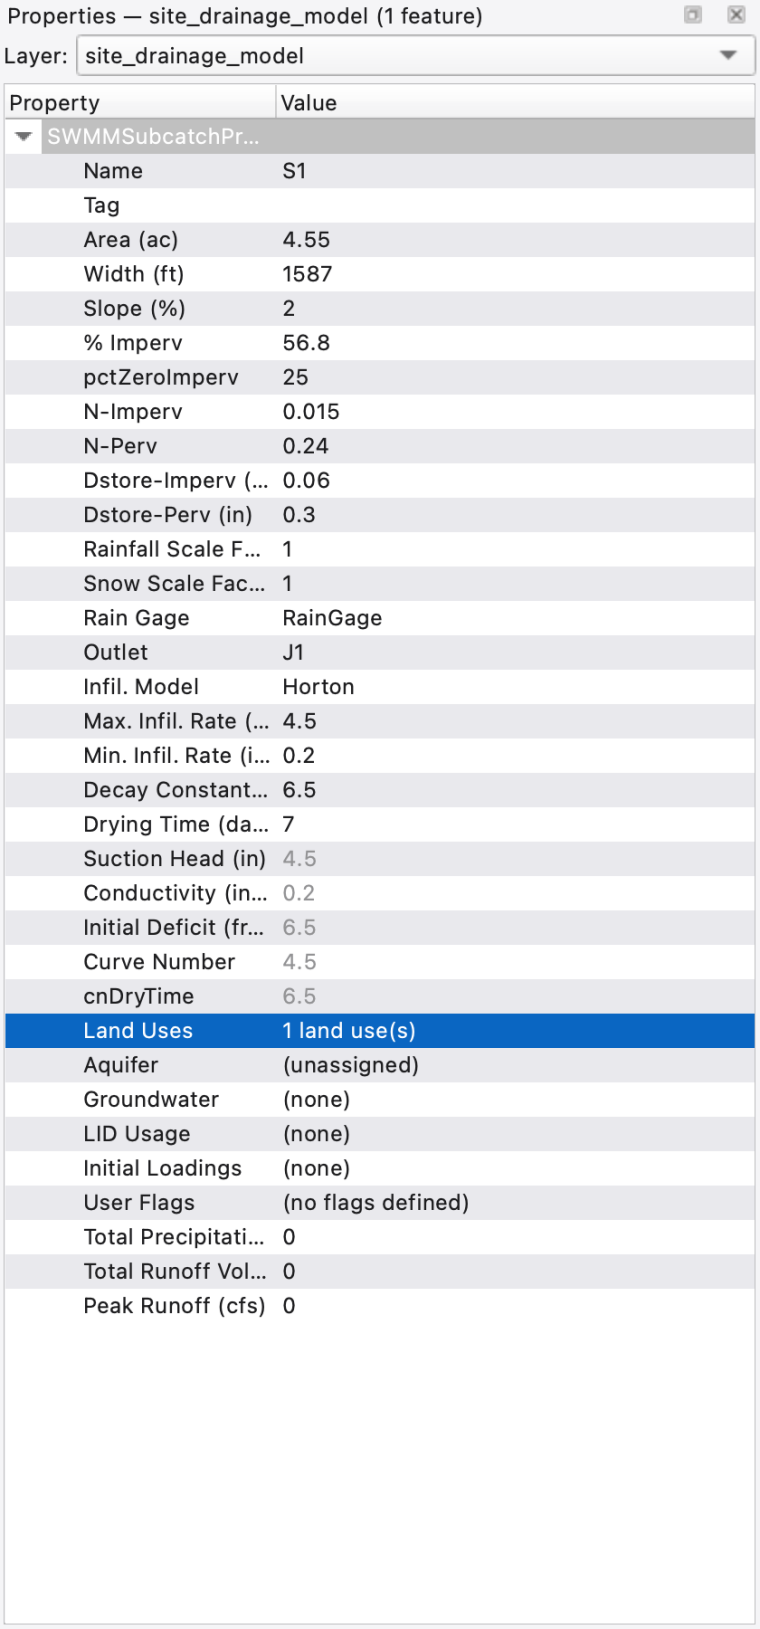
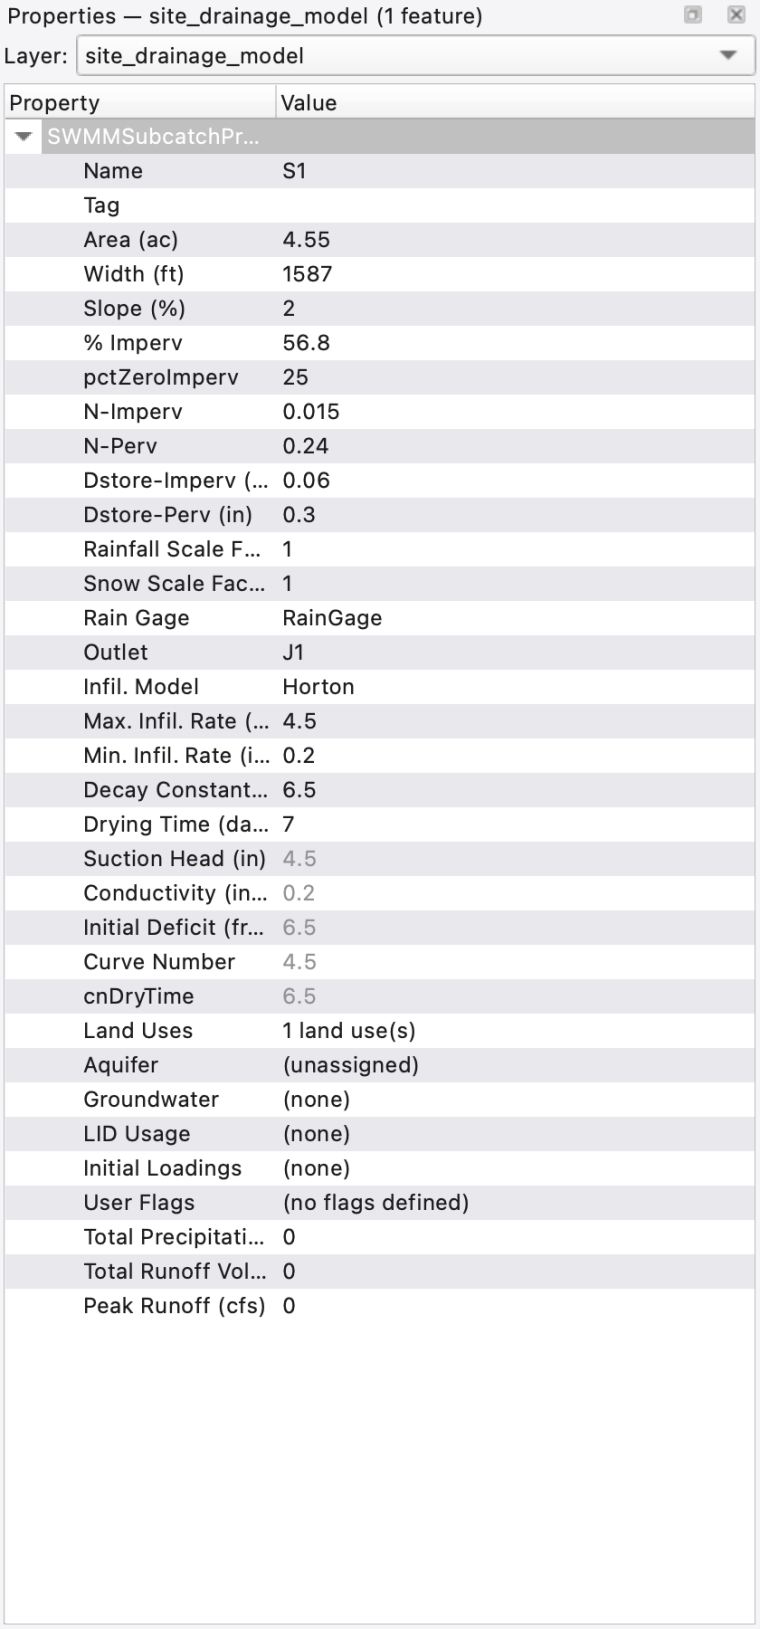
feat(docs): reach the compound editors; five more figures
The node/link compound editors open from a right-click menu -- native on
macOS, so human-lane -- or from an "Edit..." button the table's delegate
builds only while the cell is in edit mode. "editCell" opens that editor so
"click" can press it, which is the whole chain: page -> select -> editCell
-> click -> grab.

Four things that chain needed:

  - The click continuation re-ran editCell and column against the dialog it
    had just raised. They are served by then, like page and tab.
  - The delegate's button embeds the cell's own summary in its label
    ("(none) - Edit..."), which a manifest cannot know per object, so click
    falls back to a contains match.
  - editCell honoured row 0 rather than the selected row, which opened an
    inflows page reading "0 on this node (model total: 4)".
  - hostSelect ordering is now split by row type. An ACTION row must select
    before the action fires; a WIDGET row must select after its page has
    switched, because switching the Attribute Table's category resets the
    model. Selecting first looked for a conduit among the junctions.

A dock's layout also claws back the size set at the top of grabInto once
selection rebuilds the contents -- the Properties panel came out 278 px wide
instead of 420 -- so the size is re-asserted last.

Verified twice that none of this disturbed existing figures:
16_pollutant_editor re-captured byte-identical to the published copy.
[…]

Changed region(s): [[0.0, 0.6139, 0.9987, 0.6446]]

diff --git a/src/ui/util/figurecapture.cpp b/src/ui/util/figurecapture.cpp
@@ -373,6 +373,7 @@ bool FigureCapture::loadManifest(QString *error)
             spec.clicks << clickVal.toString();
         }
         spec.column      = o.value(QStringLiteral("column")).toString();
+        spec.editCell    = o.value(QStringLiteral("editCell")).toString();
         spec.grab        = o.value(QStringLiteral("grab")).toString();
         spec.maxWidth    = o.value(QStringLiteral("maxWidth")).toInt(0);
         spec.size     = sizeFromString_(o.value(QStringLiteral("size")).toString());
@@ -479,10 +480,12 @@ void FigureCapture::captureSpec(const FigureSpec &spec)
 {
     const int settle = spec.settleMs > 0 ? spec.settleMs : mDefaultSettleMs;
 
-    // Before anything else, and for EVERY kind of row: a widget row wants the
-    // selection just as much as an action row does — the Properties panel is
-    // a widget grab whose whole content comes from the selected object.
-    if (!applyHostSelect(spec))
+    // An ACTION row must select before the action fires: the styling commands
+    // are scoped to the layer selected in the Layers panel. A WIDGET row is
+    // the other way round — its "page" switches the Attribute Table's
+    // category, which resets the model, so selecting a row first selects in
+    // the wrong category. That one is applied in grabInto(), after the page.
+    if (spec.widget.isEmpty() && !spec.wholeWindow && !applyHostSelect(spec))
         return;
 
     // --- whole main window -------------------------------------------------
@@ -649,6 +652,73 @@ void FigureCapture::grabInto(QWidget *target, const FigureSpec &spec)
         }
     }
 
+    // The other half of the rule above: a widget or whole-window row selects
+    // AFTER its page has switched.
+    if ((!spec.widget.isEmpty() || spec.wholeWindow) && !applyHostSelect(spec))
+        return;
+
+    // A compound property (External Inflows, Cross Section, LID Usage) is
+    // edited through a delegate-built "Edit…" button that only exists while
+    // the cell is in edit mode. Open that editor so a later click can press
+    // it — the alternative entry point is a right-click menu, which is
+    // native on macOS and therefore human-lane.
+    if (!spec.editCell.isEmpty()) {
+        // A category switch RESETS the table model and rebuilds its column
+        // schema, and that lands on a later turn of the event loop. Looking
+        // for the column immediately found a model with no rows at all.
+        {
+            QElapsedTimer rebuilt;
+            rebuilt.start();
+            const int wait = spec.settleMs > 0 ? spec.settleMs : mDefaultSettleMs;
+            while (rebuilt.elapsed() < wait)
+                QCoreApplication::processEvents(QEventLoop::ExcludeUserInputEvents, 20);
+        }
+        bool opened = false;
+        QStringList headers;
+        const auto views = target->findChildren<QAbstractItemView *>();
+        for (QAbstractItemView *view : views) {
+            QAbstractItemModel *model = view->model();
+            if (!view->isVisibleTo(target) || !model || model->rowCount() <= 0)
+                continue;
+            for (int col = 0; col < model->columnCount(); ++col) {
+                const QString head =
+                    model->headerData(col, Qt::Horizontal, Qt::DisplayRole).toString();
+                if (head.isEmpty())
+                    continue;
+                headers << head;
+                if (head.compare(spec.editCell, Qt::CaseInsensitive) != 0)
+                    continue;
+                // Honour the selected row: hostSelect picks the object the
+                // figure is about, and opening row 0 regardless produced an
+                // inflows page reading "0 on this node (model total: 4)".
+                const int row = view->currentIndex().isValid()
+                                    ? view->currentIndex().row() : 0;
+                const QModelIndex idx = model->index(row, col);
+                if (!idx.isValid())
+                    continue;
+                view->scrollTo(idx, QAbstractItemView::PositionAtCenter);
+                view->setCurrentIndex(idx);
+                view->edit(idx);
+                QCoreApplication::processEvents(QEventLoop::ExcludeUserInputEvents);
+                opened = true;
+                break;
+            }
+            if (opened)
+                break;
+        }
+        if (!opened) {
+            r.status    = QStringLiteral("failed");
+            r.detail    = QStringLiteral("no column headed '%1' to edit in %2 — headers: %3")
+                              .arg(spec.editCell,
+                                   QString::fromLatin1(target->metaObject()->className()),
+                                   headers.join(QStringLiteral(", ")));
+            r.elapsedMs = int(mSpecTimer.elapsed());
+            dismissOpenedBy(spec);
+            finishSpec(r);
+            return;
+        }
+    }
+
     // Some figures live one button-press further in: the label expression
     // builder opens from the Labels tab, the ramp editor from a ramp picker.
     // Arm the grab BEFORE the click for the same reason the action path does
@@ -664,6 +734,7 @@ void FigureCapture::grabInto(QWidget *target, const FigureSpec &spec)
             const QString wanted = spec.clicks.at(i);
             QStringList offered;
             btn = nullptr;
+            QAbstractButton *loose = nullptr;
             const auto buttons = target->findChildren<QAbstractButton *>();
             for (QAbstractButton *b : buttons) {
                 if (!b->isVisibleTo(target) || !b->isEnabled()
@@ -675,7 +746,14 @@ void FigureCapture::grabInto(QWidget *target, const FigureSpec &spec)
                     btn = b;
                     break;
                 }
+                // A delegate button embeds the cell's own summary in its
+                // label ("(none) - Edit..."), which a manifest cannot know
+                // per object. Fall back to a contains match.
+                if (!loose && label.contains(wanted, Qt::CaseInsensitive))
+                    loose = b;
             }
+            if (!btn)
+                btn = loose;
             if (!btn) {
                 r.status    = QStringLiteral("failed");
                 r.detail    = QStringLiteral("no button labelled '%1' — buttons: %2")
@@ -695,6 +773,8 @@ void FigureCapture::grabInto(QWidget *target, const FigureSpec &spec)
         rest.clicks.clear();
         rest.page.clear();
         rest.tab.clear();
+        rest.editCell.clear();   // already served: it is what raised the dialog
+        rest.column.clear();
         rest.hostSize = QSize();
         QWidget *before = activeDialog();
         QTimer::singleShot(spec.settleMs > 0 ? spec.settleMs : mDefaultSettleMs,
@@ -864,6 +944,12 @@ void FigureCapture::grabInto(QWidget *target, const FigureSpec &spec)
         }
         target = inner;
     }
+
+    // Every step above can relayout the target, and a dock's layout claws
+    // back the size set at the top — the Properties panel came out 278 px
+    // wide instead of 420. Re-assert it last, once the content is final.
+    if (spec.size.isValid())
+        target->resize(spec.size);
 
     // Let the resize / page switch lay out before the pixels are read.
     QCoreApplication::processEvents(QEventLoop::ExcludeUserInputEvents);

diff --git a/include/ui/util/figurecapture.h b/include/ui/util/figurecapture.h
@@ -64,6 +64,7 @@ struct FigureSpec {
     QString    hostSelectIn;        //!< scope \a hostSelect to this panel (objectName or class)
     QStringList clicks;             //!< buttons to press in the target; the LAST one's dialog becomes the target
     QString    column;              //!< scroll the target's table to this column header
+    QString    editCell;            //!< open the row-0 cell editor in this column (compound "Edit…")
     QString    grab;                //!< narrow the grab to this descendant (objectName or class)
     QSize      size;                //!< resize the target before grabbing
     QSize      hostSize;            //!< resize the MAIN WINDOW first (layout-dependent widgets)

diff --git a/docs/manual/images/TODO.md b/docs/manual/images/TODO.md
@@ -10,7 +10,7 @@ publish it with `python3 scripts/manual_figures.py flip --chapter NN`
 `\fig`). Videos are swapped by hand: `\videotodo{caption}` →
 `\video{YOUTUBE_ID, caption}`.
 
-Remaining: 239 figures, 35 videos. Published so far: 87.
+Remaining: 234 figures, 35 videos. Published so far: 92.
 
 ## 01_introduction.md
 
@@ -76,8 +76,6 @@ Remaining: 239 figures, 35 videos. Published so far: 87.
 - [ ] `10_three_docks.png` (line 11) — The Object Browser on the left with the Properties panel and Section View on the right
 - [ ] `10_browser_context_menu.png` (line 120) — The Object Browser leaf context menu on a junction
 - [ ] `10_offset_mode_toggle.png` (line 208) — The status-bar offset-mode switch with the property rows relabelled to Elevation
-- [ ] `10_node_compound_inflows.png` (line 247) — The node compound editor on the Inflows page
-- [ ] `10_link_xsection_editor.png` (line 261) — The cross-section page with a live preview of an arch section
 - [ ] `10_subcatch_lid_usage.png` (line 277) — The subcatchment compound editor on the LID Usage page
 - [ ] `10_convert_to_menu.png` (line 316) — The Convert To submenu with Virtual Junction greyed out and its rule tooltip
 - [ ] `10_section_view_link.png` (line 348) — The Section View showing a conduit cross-section at the 1:1 default
@@ -120,11 +118,8 @@ Remaining: 239 figures, 35 videos. Published so far: 87.
 - [ ] `14_inlet_junction_setup.png` (line 138) — The Inlet Junction Setup dialog
 - [ ] `14_inlet_junction_properties.png` (line 140) — Inlet junction property rows with the dashed capture-node connector on the map
 - [ ] `14_storage_shapes.png` (line 193) — Storage shape rows for a conical unit
-- [ ] `14_node_inflows_page.png` (line 244) — The External Inflows page of the node compound editor
 - [ ] `14_treatment_page.png` (line 246) — The Pollutant Treatment page with a validated expression
-- [ ] `14_xsection_editor.png` (line 371) — The cross-section editor with the shape gallery and the live section preview
 - [ ] `14_transect_editor.png` (line 396) — The Transect editor with the station table and the section chart
-- [ ] `14_inlet_usage_page.png` (line 472) — The Inlets page of the link compound editor
 - [ ] `14_rules_completion.png` (line 515) — Rule completion offering live node names
 
 ## 15_climate.md

diff --git a/docs/manual/14_hydraulics.md b/docs/manual/14_hydraulics.md
@@ -241,7 +241,7 @@ Expression vocabulary, mirroring the engine's treatment grammar: variables
 verdict always comes from the engine, so the highlighter can lag the grammar
 without ever mis-validating.
 
-\figtodo{14_node_inflows_page.png, The External Inflows page of the node compound editor}
+\fig{14_node_inflows_page.png, The External Inflows page of the node compound editor}
 
 \figtodo{14_treatment_page.png, The Pollutant Treatment page with a validated expression}
 
@@ -368,7 +368,7 @@ The **Section View** dock (**View → Panels → Section View**, `Ctrl+Alt+9`) s
 the same drawing for whatever link is currently selected, without opening a
 dialog.
 
-\figtodo{14_xsection_editor.png, The cross-section editor with the shape gallery and the live section preview}
+\fig{14_xsection_editor.png, The cross-section editor with the shape gallery and the live section preview}
 
 ### Transect editor
 
@@ -469,7 +469,7 @@ conduit's own end nodes and every virtual or inlet junction (rule 627). The whol
 row commits as one undoable command, so this edit and the same edit made on an
 inlet junction's property rows are literally the same operation.
 
-\figtodo{14_inlet_usage_page.png, The Inlets page of the link compound editor}
+\fig{14_inlet_usage_page.png, The Inlets page of the link compound editor}
 
 \videotodo{Splitting a street conduit into an inlet junction and wiring its capture node}
 

diff --git a/docs/manual/10_object_browser.md b/docs/manual/10_object_browser.md
@@ -244,7 +244,7 @@ remove-and-re-add through the table selection and the form below.
 A node's **Groundwater Sources** row is navigational only — it opens the owning
 subcatchment's Groundwater Exchange dialog rather than a page here.
 
-\figtodo{10_node_compound_inflows.png, The node compound editor on the Inflows page}
+\fig{10_node_compound_inflows.png, The node compound editor on the Inflows page}
 
 #### Link compound editor
 
@@ -258,7 +258,7 @@ Opened from a link's **Cross-Section** or **Inlets** row.
 The culvert code moved out of this dialog: it is an inline combo on the
 conduit's own property row.
 
-\figtodo{10_link_xsection_editor.png, The cross-section page with a live preview of an arch section}
+\fig{10_link_xsection_editor.png, The cross-section page with a live preview of an arch section}
 
 #### Subcatchment compound editor
 
